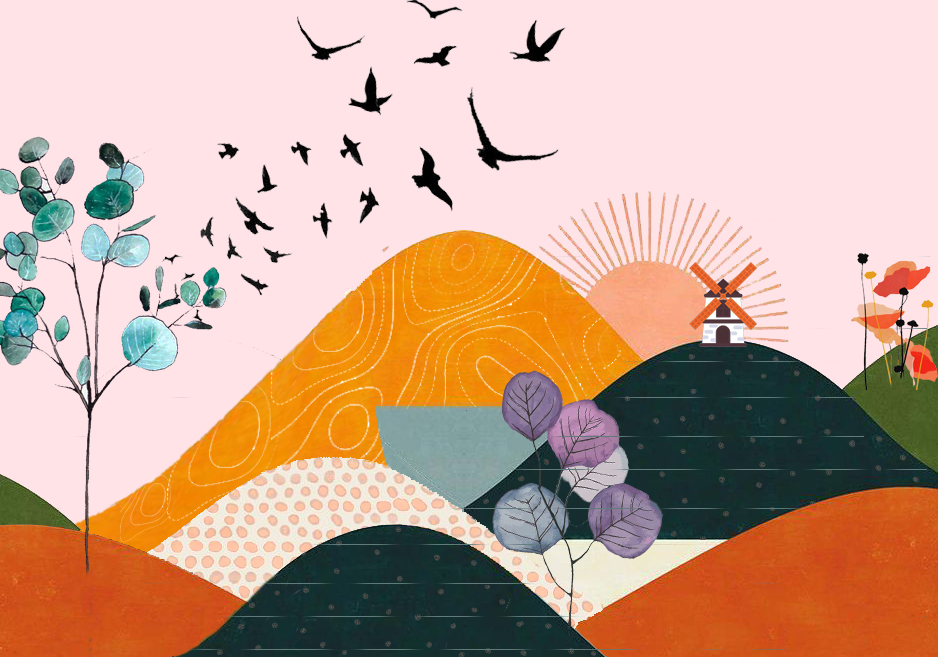
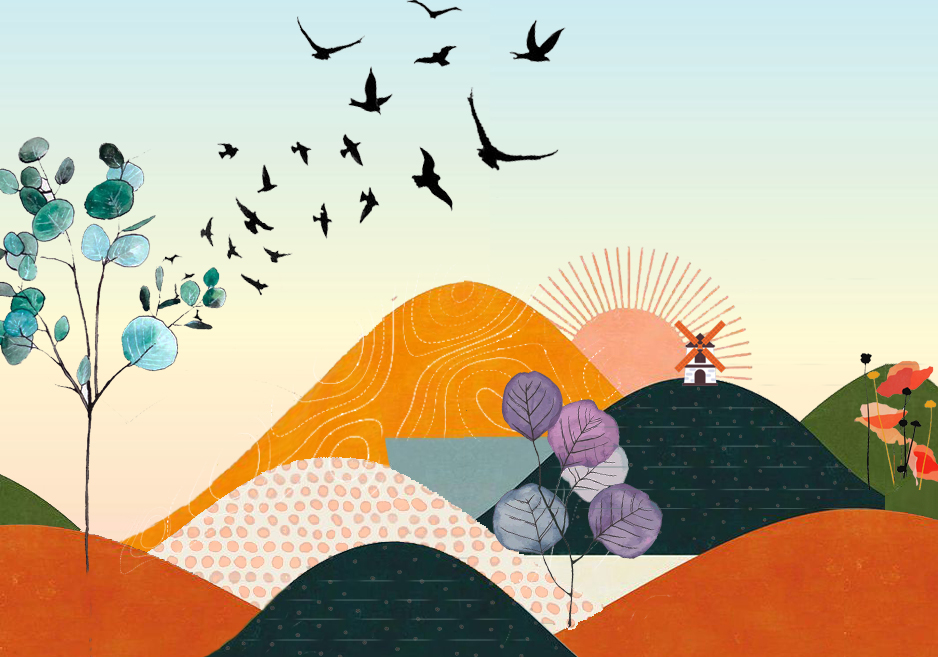
images change

diff --git a/index.html b/index.html
@@ -42,7 +42,7 @@
 
   <nav class="navbar navbar-expand-lg navbar-dark ftco_navbar bg-dark ftco-navbar-light" id="ftco-navbar">
     <div class="container">
-      <a class="navbar-brand" href="index.html"><img src="./images/LOGO(2).png" id="logo-img"></a>
+      <a class="navbar-brand" href="index.html"><img src="./images/LOGO Black.png" id="logo-img"></a>
       <button class="navbar-toggler" type="button" data-toggle="collapse" data-target="#ftco-nav"
         aria-controls="ftco-nav" aria-expanded="false" aria-label="Toggle navigation">
         <span class="oi oi-menu"></span> Menu
@@ -742,37 +742,37 @@
           <div class="product-crousel owl-carousel">
 
             <div class="item">
-              <a href="./images/kesari/2019_5image_14_59_482339380kesarinandan-ll.jpg" data-fancybox="projectModal1">
-                <img src="images/kesari/2019_5image_14_59_482339380kesarinandan-ll.jpg" alt="Owl Image">
+              <a href="./images/kesari/2019_5image_14_59_482339380kesarinandan-ll.png" data-fancybox="projectModal1">
+                <img src="images/kesari/2019_5image_14_59_482339380kesarinandan-ll.png" alt="Owl Image">
               </a>
             </div>
             <div class="item">
-              <a href="./images/kesari/aastha1.jpg" data-fancybox="projectModal1">
-                <img src="images/kesari/aastha1.jpg" alt="Owl Image">
+              <a href="./images/kesari/aastha1.png" data-fancybox="projectModal1">
+                <img src="images/kesari/aastha1.png" alt="Owl Image">
               </a>
             </div>
             <div class="item">
-              <a href="./images/kesari/Manav-Gohil-and-Aastha-Chaudhary-at-COLORS-Kesari-Nandan-launch.jpg"
+              <a href="./images/kesari/Manav-Gohil-and-Aastha-Chaudhary-at-COLORS-Kesari-Nandan-launch.png"
                 data-fancybox="projectModal1">
-                <img src="images/kesari/Manav-Gohil-and-Aastha-Chaudhary-at-COLORS-Kesari-Nandan-launch.jpg"
+                <img src="images/kesari/Manav-Gohil-and-Aastha-Chaudhary-at-COLORS-Kesari-Nandan-launch.png"
                   alt="Owl Image">
               </a>
             </div>
             <div class="item">
-              <a href="./images/kesari/WhatsApp Image 2020-08-19 at 5.07.40 PM (2).jpeg" data-fancybox="projectModal1">
-                <img src="images/kesari/WhatsApp Image 2020-08-19 at 5.07.40 PM (2).jpeg" alt="Owl Image"></a>
+              <a href="./images/kesari/Master.png" data-fancybox="projectModal1">
+                <img src="images/kesari/Master.png" alt="Owl Image"></a>
             </div>
             <div class="item">
-              <a href="./images/kesari/WhatsApp Image 2020-08-19 at 5.07.40 PM.jpeg" data-fancybox="projectModal1">
-                <img src="images/kesari/WhatsApp Image 2020-08-19 at 5.07.40 PM.jpeg" alt="Owl Image"></a>
+              <a href="./images/kesari/WhatsApp Image 2 2020-08-19 at 5.png" data-fancybox="projectModal1">
+                <img src="images/kesari/WhatsApp Image 2 2020-08-19 at 5.png" alt="Owl Image"></a>
             </div>
             <div class="item">
-              <a href="./images/kesari/WhatsApp Image 2020-08-19 at 5.07.41 PM (2).jpeg" data-fancybox="projectModal1">
-                <img src="images/kesari/WhatsApp Image 2020-08-19 at 5.07.41 PM (2).jpeg" alt="Owl Image"></a>
+              <a href="./images/kesari/WhatsApp Image 2020-08-19 at 5.07.png" data-fancybox="projectModal1">
+                <img src="images/kesari/WhatsApp Image 3 2020-08-19 at 5.07.png" alt="Owl Image"></a>
             </div>
             <div class="item">
-              <a href="./images/kesari/WhatsApp Image 2020-08-19 at 5.07.41 PM (3).jpeg" data-fancybox="projectModal1">
-                <img src="images/kesari/WhatsApp Image 2020-08-19 at 5.07.41 PM (3).jpeg" alt="Owl Image">
+              <a href="./images/kesari/WhatsApp Image1 2020-08-19 at 5.07.png" data-fancybox="projectModal1">
+                <img src="images/kesari/WhatsApp Image1 2020-08-19 at 5.07.png" alt="Owl Image">
               </a>
             </div>
           </div>
@@ -795,22 +795,22 @@
           <div class="product-crousel owl-carousel">
 
             <div class="item">
-              <a href="./images/namah/EJ9OiWkX0AAcxXi.jpg" data-fancybox="projectModal2">
-                <img src="images/namah/EJ9OiWkX0AAcxXi.jpg" alt="Owl Image"></a></div>
-            <div class="item"><a href="./images/namah/WhatsApp Image 2020-08-19 at 5.12.47 PM (1).jpeg"
-                data-fancybox="projectModal2"><img src="images/namah/WhatsApp Image 2020-08-19 at 5.12.47 PM (1).jpeg"
+              <a href="./images/namah/EJ9OiWkX0AAcxXi.png" data-fancybox="projectModal2">
+                <img src="images/namah/EJ9OiWkX0AAcxXi.png" alt="Owl Image"></a></div>
+            <div class="item"><a href="./images/namah/WhatsApp Image 2020-08-19 (1) at 5.12.png"
+                data-fancybox="projectModal2"><img src="images/namah/WhatsApp Image 2020-08-19 (1) at 5.12.png"
                   alt="Owl Image"></a>
             </div>
-            <div class="item"><a href="./images/namah/WhatsApp Image 2020-08-19 at 5.12.47 PM (2).jpeg"
-                data-fancybox="projectModal2"><img src="images/namah/WhatsApp Image 2020-08-19 at 5.12.47 PM (2).jpeg"
+            <div class="item"><a href="./images/namah/WhatsApp Image 2020-08-19 at 5.12.png"
+                data-fancybox="projectModal2"><img src="images/namah/WhatsApp Image 2020-08-19 at 5.12.png"
                   alt="Owl Image"></a>
             </div>
-            <div class="item"><a href="./images/namah/WhatsApp Image 2020-08-19 at 5.12.47 PM.jpeg"
-                data-fancybox="projectModal2"><img src="images/namah/WhatsApp Image 2020-08-19 at 5.12.47 PM.jpeg"
+            <div class="item"><a href="./images/namah/WhatsApp Image 2020-08-19 at 5.15.png"
+                data-fancybox="projectModal2"><img src="images/namah/WhatsApp Image 2020-08-19 at 5.15.png"
                   alt="Owl Image"></a>
             </div>
-            <div class="item"><a href="./images/namah/WhatsApp Image 2020-08-19 at 5.15.40 PM (2).jpeg"
-                data-fancybox="projectModal2"><img src="images/namah/WhatsApp Image 2020-08-19 at 5.15.40 PM (2).jpeg"
+            <div class="item"><a href="./images/namah/WhatsApp Image 2020-08-19 at 5.png"
+                data-fancybox="projectModal2"><img src="images/namah/WhatsApp Image 2020-08-19 at 5.png"
                   alt="Owl Image"></a>
             </div>
 
@@ -900,8 +900,8 @@
               </div>
               <div class="carousel-item">
                 <a data-fancybox="exampleModalCenter1"
-                  href="./images/sketches/IMG_20180130_121209(1).jpg">
-                  <img class="d-block w-100" src="./images/sketches/IMG_20180130_121209(1).jpg"
+                  href="./images/sketches/IMG_20180130_121209.png">
+                  <img class="d-block w-100" src="./images/sketches/IMG_20180130_121209.png"
                     alt="Third slide">
                 </a>
               </div>
@@ -1272,22 +1272,20 @@
           <div class="product-crousel owl-carousel">
 
             <div class="item">
-              <a data-fancybox="productModal1" href="./images/ornaments/IMG-20161116-WA0017.jpg">
-                <img src="images/ornaments/IMG-20161116-WA0017.jpg" alt="Owl Image"></a></div>
-            <div class="item"><a data-fancybox="productModal1" href="./images/ornaments/IMG-20161116-WA0017.jpg"><img
-                  src="images/ornaments/IMG_20170111_154628.jpg" alt="Owl Image"></a></div>
-            <div class="item"><a data-fancybox="productModal1" href="./images/ornaments/IMG_20170709_114520.jpg"><img
-                  src="images/ornaments/IMG_20170709_114520.jpg" alt="Owl Image"></a></div>
-            <div class="item"><a data-fancybox="productModal1" href="./images/ornaments/IMG_20170709_115003.jpg"><img
-                  src="images/ornaments/IMG_20170709_115003.jpg" alt="Owl Image"></a></div>
-            <div class="item"><a data-fancybox="productModal1" href="./images/ornaments/IMG_20170709_115349.jpg"><img
-                  src="images/ornaments/IMG_20170709_115349.jpg" alt="Owl Image"></a></div>
-            <div class="item"><a data-fancybox="productModal1" href="./images/ornaments/IMG_20170709_134754.jpg"><img
-                  src="images/ornaments/IMG_20170709_134754.jpg" alt="Owl Image"></a></div>
-            <div class="item"><a data-fancybox="productModal1" href="./images/ornaments/IMG_20180130_110133.jpg"><img
-                  src="images/ornaments/IMG_20180130_110133.jpg" alt="Owl Image"></a></div>
-            <div class="item"><a data-fancybox="productModal1" href="./images/ornaments/IMG_20180130_111433.jpg"><img
-                  src="images/ornaments/IMG_20180130_111433.jpg" alt="Owl Image"></a></div>
+              <a data-fancybox="productModal1" href="./images/ornaments/IMG-20161116-WA0017.png">
+                <img src="images/ornaments/IMG-20161116-WA0017.png" alt="Owl Image"></a></div>
+            <div class="item"><a data-fancybox="productModal1" href="./images/ornaments/IMG_20170709_114520.png"><img
+                  src="images/ornaments/IMG_20170709_114520.png" alt="Owl Image"></a></div>
+            <div class="item"><a data-fancybox="productModal1" href="./images/ornaments/IMG_20170709_115003.png"><img
+                  src="images/ornaments/IMG_20170709_115003.png" alt="Owl Image"></a></div>
+            <div class="item"><a data-fancybox="productModal1" href="./images/ornaments/IMG_20170709_115349.png"><img
+                  src="images/ornaments/IMG_20170709_115349.png" alt="Owl Image"></a></div>
+            <div class="item"><a data-fancybox="productModal1" href="./images/ornaments/IMG_20170709_134754.png"><img
+                  src="images/ornaments/IMG_20170709_134754.png" alt="Owl Image"></a></div>
+            <div class="item"><a data-fancybox="productModal1" href="./images/ornaments/IMG_20180130_110133.png"><img
+                  src="images/ornaments/IMG_20180130_110133.png" alt="Owl Image"></a></div>
+            <div class="item"><a data-fancybox="productModal1" href="./images/ornaments/IMG_20180130_111433.png"><img
+                  src="images/ornaments/IMG_20180130_111433.png" alt="Owl Image"></a></div>
 
           </div>
 
@@ -1310,14 +1308,14 @@
           <div class="product-crousel owl-carousel">
 
             <div class="item">
-              <a data-fancybox="productModal2" href="./images/bags/bag 1(1).jpg">
-                <img src="images/bags/bag 1(1).jpg" alt="Owl Image"></a></div>
+              <a data-fancybox="productModal2" href="./images/bags/bag 1.png">
+                <img src="images/bags/bag 1.png" alt="Owl Image"></a></div>
             <div class="item"> <a data-fancybox="productModal2" href="./images/bags/bag 2.png"><img
                   src="images/bags/bag 2.png" alt="Owl Image"></a></div>
             <div class="item"> <a data-fancybox="productModal2" href="./images/bags/bag 4.png"><img
                   src="images/bags/bag 4.png" alt="Owl Image"></a></div>
-            <div class="item"> <a data-fancybox="productModal2" href="./images/bags/bag 6.png"><img
-                  src="images/bags/bag 6.png" alt="Owl Image"></a></div>
+            <!-- <div class="item"> <a data-fancybox="productModal2" href="./images/bags/bag 6.png"><img
+                  src="images/bags/bag 6.png" alt="Owl Image"></a></div> -->
             <div class="item"> <a data-fancybox="productModal2" href="./images/bags/bag3.png"><img
                   src="images/bags/bag3.png" alt="Owl Image"></a></div>
 
@@ -1341,9 +1339,9 @@
         <div class="modal-body">
           <div class="product-crousel owl-carousel">
 
-            <div class="item"><a href="./images/bags/IMG_7106(1).JPG" data-fancybox="productModal3"><img
+            <div class="item"><a href="./images/bags/IMG_7106.png" data-fancybox="productModal3"><img
                   src="images/bags/IMG_7106(1).JPG" alt="Owl Image"></a></div>
-            <div class="item"><a href="./images/bags/IMG_7109.JPG" data-fancybox="productModal3"><img
+            <div class="item"><a href="./images/bags/IMG_7109.png" data-fancybox="productModal3"><img
                   src="images/bags/IMG_7109.JPG" alt="Owl Image"></a></div>
           </div>
 
@@ -1355,13 +1353,13 @@
     </div>
   </div>
   <!-- Modal end -->
-  <footer class="ftco-footer ftco-bg-dark ftco-section">
+  <footer class="ftco-footer ftco-bg-dark ftco-section" >
     <div class="container">
       <div class="row mb-5">
         <div class="col-md">
           <div class="ftco-footer-widget mb-4">
-            <h2 class="ftco-heading-2"><img src="./images/LOGO(2).png" id="logo-img"></h2>
-            <h2>In the midst of winter, We finally learned that there is an invincible summer within US..</h2>
+            <h2 class="ftco-heading-2"><img src="./images/LOGO Black.png" id="logo-img"></h2>
+            <h2 style="color: black;">In the midst of winter, We finally learned that there is an invincible summer within US..</h2>
           </div>
         </div>
         <div class="col-md">
@@ -1385,28 +1383,30 @@
             </ul>
           </div> -->
         </div>
-        <div class="col-md">
+        <div class="col-md mt-lg-5" >
           <div class="ftco-footer-widget mb-4">
             <ul class="ftco-footer-social list-unstyled float-md-left float-lft">
               <li class="ftco-animate"><a href="http://twitter.com/@Apoorva50075375" target="_blank"><span
-                    class="icon-twitter"></span></a></li>
+                    class="icon-twitter" style="color: black;"></span></a></li>
               <li class="ftco-animate"><a href="https://www.facebook.com/apoorva.chaudhary.71" target="_blank"><span
-                    class="icon-facebook"></span></a></li>
+                    class="icon-facebook" style="color: black;"></span></a></li>
               <li class="ftco-animate"><a href="https://instagram.com/ms_fableteller" target="_blank"><span
-                    class="icon-instagram"></span></a></li>
+                    class="icon-instagram" style="color: black;"></span></a></li>
+                    <li class="ftco-animate"><a href="https://www.linkedin.com/in/apoorva-chaudhary-bb71a1152" target="_blank"><span
+                      class="icon-linkedin" style="color: black;"></span></a></li>
             </ul>
           </div>
         </div>
       </div>
       <div class="row">
-        <div class="col-md-12 text-center">
+        <div class="col-md-12 text-center" style="color: black;">
 
-          <p>
+          <p style="color: black;">
             <!-- Link back to Colorlib can't be removed. Template is licensed under CC BY 3.0. -->
             Copyright &copy;
             <script>document.write(new Date().getFullYear());</script> All rights reserved | This template is
             made with
-            <i class="icon-heart" aria-hidden="true"></i> by <a href="https://colorlib.com" target="_blank">Colorlib</a>
+            <i class="icon-heart" aria-hidden="true"></i> by <a href="https://colorlib.com" target="_blank" style="color: black;">Colorlib</a>
             <!-- Link back to Colorlib can't be removed. Template is licensed under CC BY 3.0. -->
           </p>
         </div>

diff --git a/about/index.html b/about/index.html
@@ -61,7 +61,7 @@
 				<div class="text-center">
 					<div class="author-img" style="background-image: url(../images/apoorva.jpeg);"></div>
 					<h1 id="colorlib-logo"><a href="index.html">Apoorva Chaudhary</a></h1>
-					<span class="position">Graphic Designer in India</span>
+					<span class="position">Graphic Designer</span>
 				</div>
 				<nav id="colorlib-main-menu" role="navigation" class="navbar">
 					<div id="navbar" class="collapse">
@@ -87,8 +87,6 @@
 							template is made with <i class="icon-heart" aria-hidden="true"></i> by <a
 								href="https://colorlib.com" target="_blank">Colorlib</a>
 							<!-- Link back to Colorlib can't be removed. Template is licensed under CC BY 3.0. -->
-							</span> <span>Demo Images: <a href="https://unsplash.com/"
-									target="_blank">Unsplash.com</a></span></small></p>
 					<ul>
 						<li><a href="#"><i class="icon-facebook2"></i></a></li>
 						<li><a href="#"><i class="icon-twitter2"></i></a></li>
@@ -112,7 +110,7 @@
 											<div class="slider-text-inner js-fullheight">
 												<div class="desc">
 													<h1>Hi! <br>I'm Apoorva</h1>
-													<h2>100% html5 bootstrap templates Made by </h2>
+													<h2></h2>
 													<p><a class="btn btn-primary btn-learn">Download CV <i
 																class="icon-download4"></i></a></p>
 												</div>
@@ -130,9 +128,7 @@
 											<div class="slider-text-inner">
 												<div class="desc">
 													<h1>I am <br>a Designer</h1>
-													<h2>100% html5 bootstrap templates Made by <a
-															href="https://colorlib.com/"
-															target="_blank">colorlib.com</a></h2>
+													<h2></h2>
 													<p><a class="btn btn-primary btn-learn" href="../index.html">View Portfolio <i
 																class="icon-briefcase3"></i></a></p>
 												</div>

diff --git a/js/main.js b/js/main.js
@@ -122,19 +122,19 @@
 			if (st > 150) {
 				if ( !navbar.hasClass('scrolled') ) {
 					navbar.addClass('scrolled');
-					$('#logo-img').attr("src","./images/LOGO(2).png");	
+					$('#logo-img').attr("src","./images/LLOGO Black.png");	
 				}
 			} 
 			if (st < 150) {
 				if ( navbar.hasClass('scrolled') ) {
 					navbar.removeClass('scrolled sleep');
-					$('#logo-img').attr("src","./images/LOGO(2).png");
+					$('#logo-img').attr("src","./images/LOGO Black.png");
 				}
 			} 
 			if ( st > 350 ) {
 				if ( !navbar.hasClass('awake') ) {
 					navbar.addClass('awake');
-					$('#logo-img').attr("src","./images/LOGO_1.png");	
+					$('#logo-img').attr("src","./images/LOGO SMALL.png");	
 				}
 				
 				if(sd.length > 0) {
@@ -144,12 +144,12 @@
 			if ( st < 350 ) {
 				if ( navbar.hasClass('awake') ) {
 					navbar.removeClass('awake');
-					$('#logo-img').attr("src","./images/LOGO(2).png");
+					$('#logo-img').attr("src","./images/LOGO Black.png");
 					navbar.addClass('sleep');
 				}
 				if(sd.length > 0) {
 					sd.removeClass('sleep');
-					$('#logo-img').attr("src","./images/LOGO(2).png");
+					$('#logo-img').attr("src","./images/LOGO Black.png");
 				}
 			}
 		});

diff --git a/css/style.css b/css/style.css
@@ -7465,8 +7465,8 @@ h1, h2, h3, h4, h5,
     background: -o-linear-gradient(45deg, #8b8b92 0%, #efac78 100%);
     background: -ms-linear-gradient(45deg, #8b8b92 0%, #efac78 100%);
     background: linear-gradient(45deg, #bfbfbf 0%, #6b6b6b 100%); */
-    background-image: url('../images/PIC_4.jpg');
-    background: url('../images/PIC_4.jpg');
+    background-image: url('../images/PIC\ 4.png');
+    background: url('../images/PIC\ 4.png');
     background-repeat: no-repeat;
     background-size: cover;
     background-attachment: fixed;
